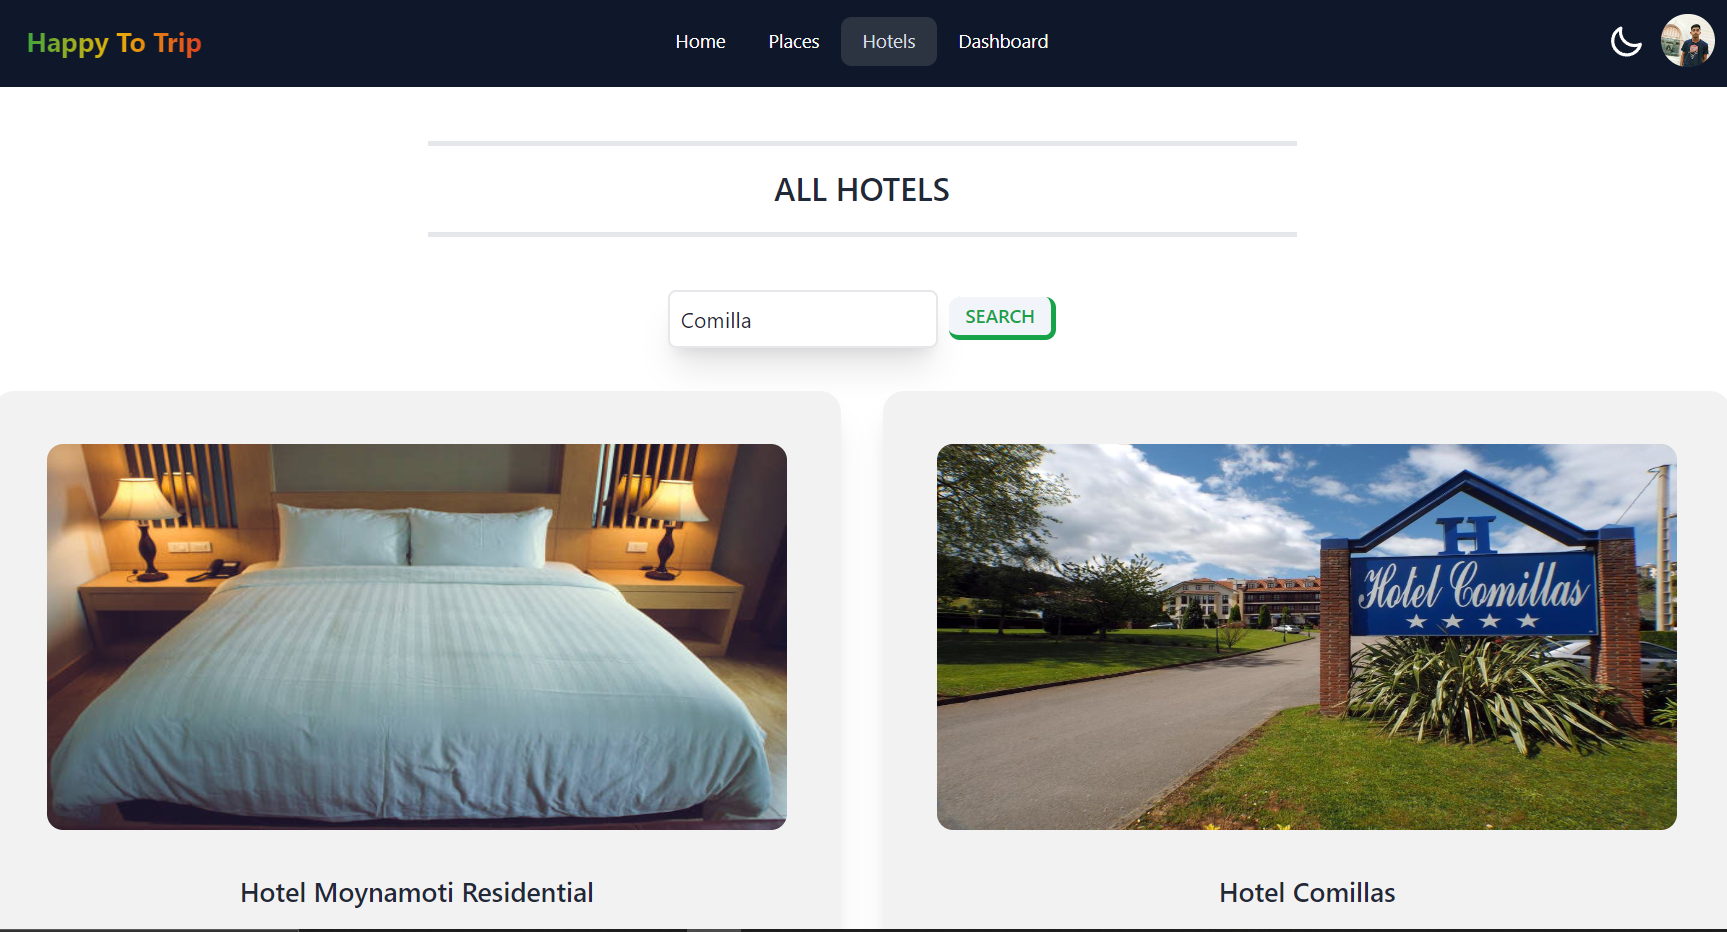
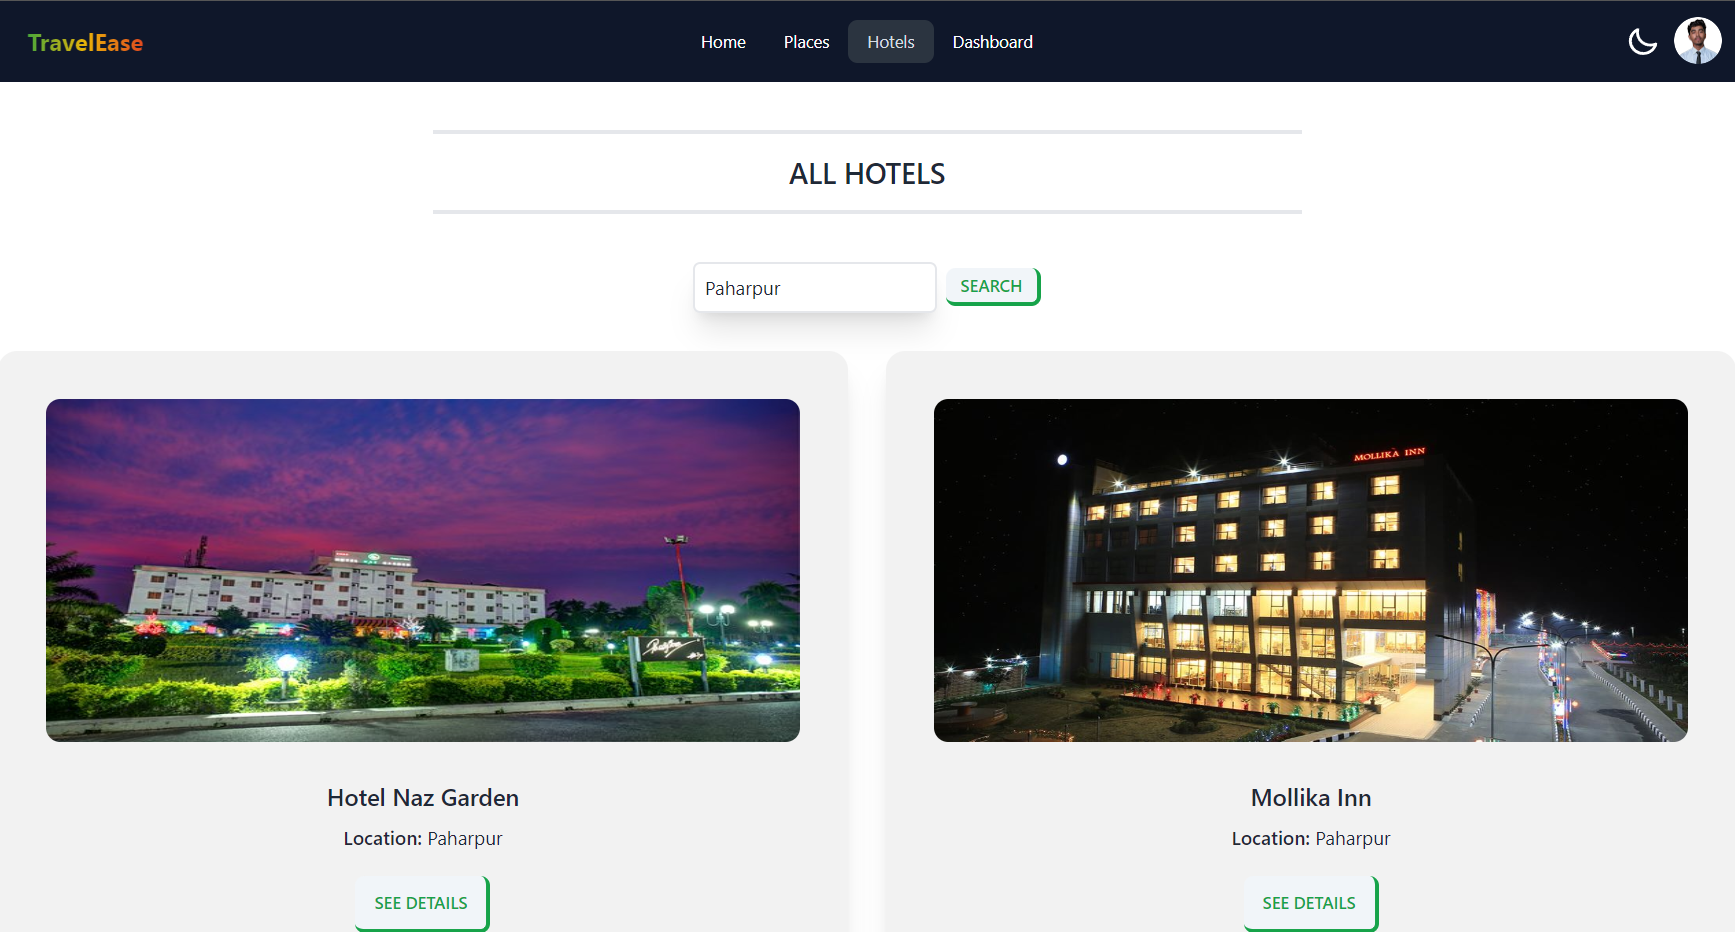
some changes

diff --git a/src/Pages/Projects/Projects.jsx b/src/Pages/Projects/Projects.jsx
@@ -79,7 +79,7 @@ const Projects = () => {
                     </div>
                 </AutoplaySlider>
                 <div className='mt-16'>
-                    <h2 className='text-3xl font-semibold'>Project Information: Happy To Trip</h2>
+                    <h2 className='text-3xl font-semibold'>Project Information: TravelEase</h2>
                     <p className='pt-5'>
                         1. User Registration and Booking System: Streamlined user registration, personalized experiences, and secure online hotel booking. <br />
                         2. Hotel Management for Hotel Managers: Dedicated portal for hotel managers to add and delete hotel listings, ensuring up-to-date and relevant content. <br />

diff --git a/src/Pages/Home/Projects.jsx b/src/Pages/Home/Projects.jsx
@@ -28,7 +28,7 @@ const Projects = () => {
                     <figure><img className='h-52 w-full' src={img2} alt="Photo" /></figure>
                     <div className="card-body">
                         <h2 className="card-title">
-                            Happy To Trip
+                            TravelEase
                         </h2>
                         <p>Experience the World's Wonders, Unveil Hidden Gems, and Create Lasting Memories with Our Travel Adventure Platform.</p>
                         <div className="card-actions justify-end">
